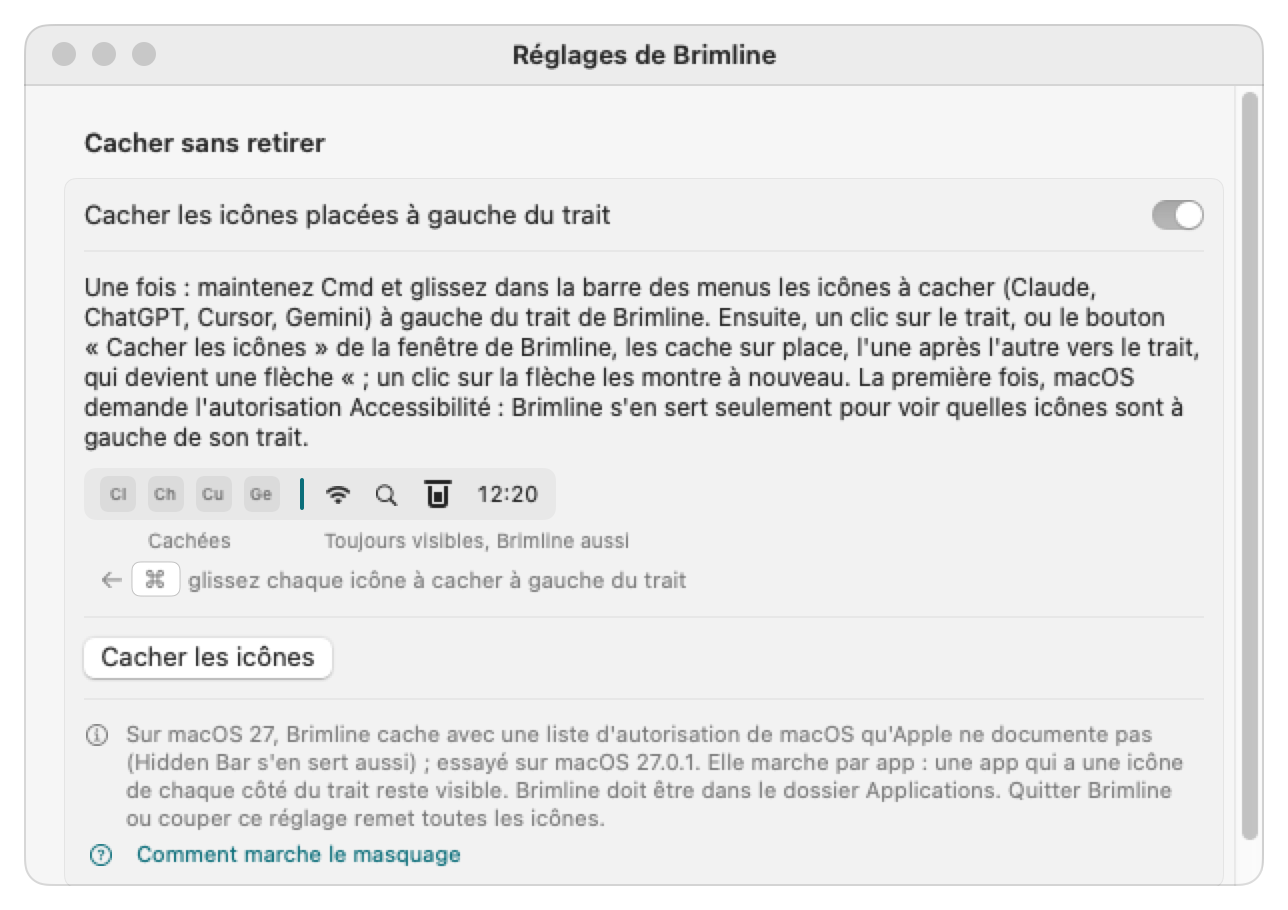
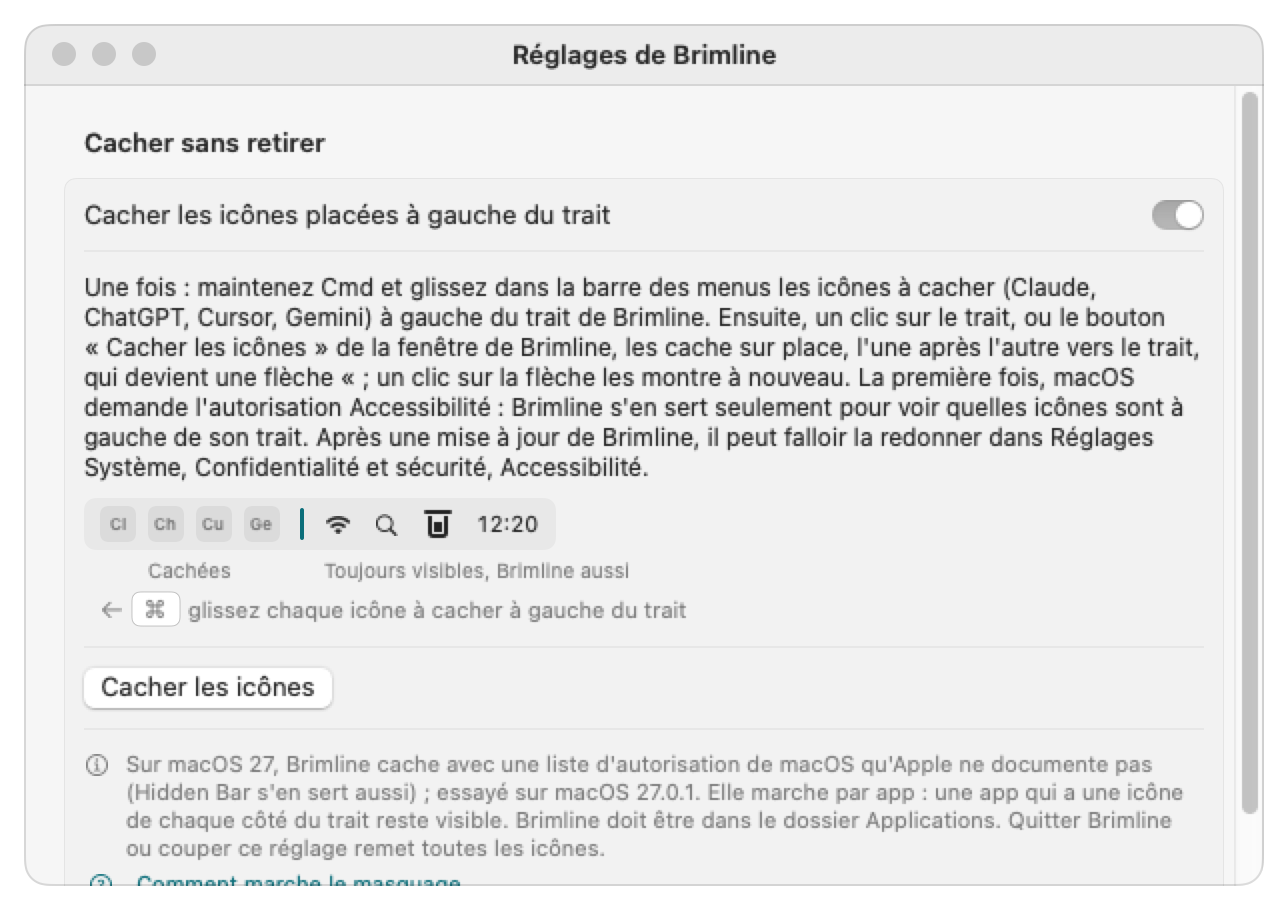
Ask for Accessibility again after an update; the grant covers one build (#42)
* Brimline: ask for Accessibility again after an update, and say the grant covers one build (THA-1551)

The grant macOS keeps for Brimline names the cdhash of the build that was
approved (an ad hoc signature): the build of main after #41 was not
covered, and the bar hid every other app at once with the remembered list,
without asking. Brimline now opens macOS's window (once per launch)
whenever it is not trusted, list or not, and the texts say that macOS asks
again after each update.

Docs: the claim that a new build kept the permission is withdrawn (that
install had copied the same build), J10 says what was really installed and
that the fixes of #41 are still to be tried by real clicks.

* Brimline: say only what was seen about the Accessibility permission after an update (THA-1551)

Seen on 29 October 2026: the grant names the cdhash of the build approved,
and the next build was not covered. Not seen yet: whether macOS shows its
window again while the old entry stays turned on, nor the gesture that makes
it cover the new build. The texts now say the permission may have to be
given again, and that this gesture is not tried yet. docs/install.md (Update)
and docs/faq.md say it too.

---------

Changed region(s): [[0.0621, 0.7077, 0.9317, 0.9846], [0.0621, 0.4615, 0.9006, 0.6769], [0.9627, 0.8923, 0.9938, 0.9231]]

diff --git a/Sources/BrimlineCore/Formatting.swift b/Sources/BrimlineCore/Formatting.swift
@@ -555,8 +555,8 @@ public struct Strings: Sendable {
     }
     /// The same on macOS 27, where Brimline hides with macOS's allow-list.
     public var menuBarHidingHowToAllowList: String {
-        t("Once: hold Command and drag the icons to hide (Claude, ChatGPT, Cursor, Gemini) to the left of Brimline's bar in the menu bar. Then a click on the bar, or the “Hide the icons” button of the Brimline window, hides them in place, one after the other toward the bar, which becomes an arrow «; a click on the arrow shows them again. The first time, macOS asks for the Accessibility permission: Brimline uses it only to see which icons are left of its bar.",
-          "Une fois : maintenez Cmd et glissez dans la barre des menus les icônes à cacher (Claude, ChatGPT, Cursor, Gemini) à gauche du trait de Brimline. Ensuite, un clic sur le trait, ou le bouton « Cacher les icônes » de la fenêtre de Brimline, les cache sur place, l'une après l'autre vers le trait, qui devient une flèche « ; un clic sur la flèche les montre à nouveau. La première fois, macOS demande l'autorisation Accessibilité : Brimline s'en sert seulement pour voir quelles icônes sont à gauche de son trait.")
+        t("Once: hold Command and drag the icons to hide (Claude, ChatGPT, Cursor, Gemini) to the left of Brimline's bar in the menu bar. Then a click on the bar, or the “Hide the icons” button of the Brimline window, hides them in place, one after the other toward the bar, which becomes an arrow «; a click on the arrow shows them again. The first time, macOS asks for the Accessibility permission: Brimline uses it only to see which icons are left of its bar. After an update of Brimline, it may have to be given again in System Settings, Privacy & Security, Accessibility.",
+          "Une fois : maintenez Cmd et glissez dans la barre des menus les icônes à cacher (Claude, ChatGPT, Cursor, Gemini) à gauche du trait de Brimline. Ensuite, un clic sur le trait, ou le bouton « Cacher les icônes » de la fenêtre de Brimline, les cache sur place, l'une après l'autre vers le trait, qui devient une flèche « ; un clic sur la flèche les montre à nouveau. La première fois, macOS demande l'autorisation Accessibilité : Brimline s'en sert seulement pour voir quelles icônes sont à gauche de son trait. Après une mise à jour de Brimline, il peut falloir la redonner dans Réglages Système, Confidentialité et sécurité, Accessibilité.")
     }
     public var menuBarHidingHide: String { t("Hide the icons", "Cacher les icônes") }
     public var menuBarHidingShow: String { t("Show the hidden icons", "Montrer les icônes cachées") }

diff --git a/Sources/BrimlineCore/MenuBarHiding.swift b/Sources/BrimlineCore/MenuBarHiding.swift
@@ -163,8 +163,8 @@ public enum MenuBarHiding {
 public struct MenuBarHidingSettings: Codable, Sendable, Equatable {
     public var enabled: Bool = false
     /// macOS 27: the apps found right of the bar the last time Brimline could read the menu bar (bundle identifiers).
-    /// Brimline is signed ad hoc, and macOS may tie the Accessibility permission to each build (a possibility, not
-    /// checked): when the permission is missing, or nothing could be read, the bar hides with this list.
+    /// Brimline is signed ad hoc, so macOS ties the Accessibility permission to one build (its grant names the cdhash):
+    /// after an update, until the new build is covered, or when nothing could be read, the bar hides with this list.
     public var shownApps: [String] = []
 
     public init(enabled: Bool = false, shownApps: [String] = []) {

diff --git a/Sources/BrimlineUI/MenuBarHider.swift b/Sources/BrimlineUI/MenuBarHider.swift
@@ -155,9 +155,10 @@ public final class MenuBarHider: NSObject, MenuBarSeparating {
 
     private func hideNatively(_ item: NSStatusItem) -> MenuBarHiding.Decision {
         let trusted = AXIsProcessTrusted()
+        // After an update, the permission given to the previous build no longer applies: ask macOS to show its window.
+        if !trusted { askAccessibility() }
         if let refusal = MenuBarHiding.nativeRefusal(appPath: Bundle.main.bundlePath, accessibilityTrusted: trusted,
                                                      knowsShownApps: !knownShownApps.isEmpty) {
-            if refusal == .accessibilityNeeded { askAccessibility() }
             return .refuse(refusal)
         }
         guard let window = item.button?.window, let screen = window.screen ?? NSScreen.main, window.frame.width > 0 else {

diff --git a/docs/menu-bar.fr.md b/docs/menu-bar.fr.md
@@ -20,7 +20,7 @@ Brimline ne peut pas retirer lui-même l'icône d'une autre app : macOS laisse c
 
 1. **Le trait apparaît.** Brimline ajoute un élément à lui dans la barre des menus : un fin trait vertical. La première fois, il arrive à gauche des autres icônes (macOS y place tout nouvel élément).
 2. **Une fois, le geste.** Maintenez Cmd et glissez, dans la barre des menus, chaque icône à cacher (Claude, ChatGPT, Cursor, Gemini) à gauche du trait. macOS retient la place de chaque icône, celle du trait aussi, d'un lancement à l'autre.
-3. **Cacher et montrer.** Un clic sur le trait cache tout ce qui est à sa gauche, et le trait devient une flèche «, juste à côté des icônes qui restent ; un clic sur la flèche les fait revenir. Sous macOS 27 et après, la première fois, macOS demande l'autorisation Accessibilité (voir plus bas). Dans la fenêtre de Brimline, **« Cacher les icônes »** et **« Montrer les icônes cachées »** font la même chose ; le même bouton est dans les Réglages.
+3. **Cacher et montrer.** Un clic sur le trait cache tout ce qui est à sa gauche, et le trait devient une flèche «, juste à côté des icônes qui restent ; un clic sur la flèche les fait revenir. Sous macOS 27 et après, macOS demande l'autorisation Accessibilité la première fois, et il peut falloir la redonner après une mise à jour de Brimline (voir plus bas). Dans la fenêtre de Brimline, **« Cacher les icônes »** et **« Montrer les icônes cachées »** font la même chose ; le même bouton est dans les Réglages.
 
 <p align="center">
   <img src="images/settings-menuBar-hiding-fr-light.png" width="520" alt="Réglages, Barre des menus, Cacher sans retirer : l'interrupteur, le geste à faire une fois, le bouton Cacher les icônes et la note sur la technique">
@@ -34,9 +34,9 @@ Quand macOS a sa liste d'autorisation de la barre des menus, Brimline cache avec
 
 - **Ce que vous voyez.** Les icônes des apps à gauche du trait disparaissent sur place, une app après l'autre de la gauche vers le trait (70 ms entre deux), et le trait devient une flèche «. macOS n'ajoute plus son propre « après les menus. Un clic sur la flèche les fait revenir, de la plus proche à la plus lointaine. Le clic sur le trait, le bouton « Cacher les icônes » de la fenêtre et celui des Réglages font la même chose.
 - **Par app.** Une app qui a une icône de chaque côté du trait reste visible, toutes ses icônes avec. Les éléments du système (horloge, Wi-Fi, Centre de contrôle) restent toujours. Une app dont Brimline ne peut pas lire les icônes en 0,2 s n'est pas sur la liste : macOS la cache, où que soient ses icônes. Quand aucune icône ne peut être lue et qu'aucune liste n'est encore mémorisée, Brimline ne cache rien et le dit.
-- **L'autorisation Accessibilité.** Brimline s'en sert seulement pour lire où sont les icônes des autres apps (l'attribut `AXExtrasMenuBar` de chaque app ouverte) et savoir lesquelles sont à gauche du trait. macOS la demande la première fois, dans une fenêtre du système. Sans elle, et sans liste connue, Brimline refuse avec : « Pour savoir quelles icônes sont à gauche de son trait, Brimline a besoin de l'autorisation Accessibilité : activez Brimline dans Réglages Système, Confidentialité et sécurité, Accessibilité, puis cliquez à nouveau. »
+- **L'autorisation Accessibilité.** Brimline s'en sert seulement pour lire où sont les icônes des autres apps (l'attribut `AXExtrasMenuBar` de chaque app ouverte) et savoir lesquelles sont à gauche du trait. macOS la demande la première fois, dans une fenêtre du système ; après une mise à jour, voir la liste mémorisée plus bas. Sans elle, et sans liste connue, Brimline refuse avec : « Pour savoir quelles icônes sont à gauche de son trait, Brimline a besoin de l'autorisation Accessibilité : activez Brimline dans Réglages Système, Confidentialité et sécurité, Accessibilité, puis cliquez à nouveau. »
 - **Brimline doit être dans `/Applications`.** Ailleurs, macOS cache aussi ses icônes. Le 28 octobre 2026, un programme d'essai a mis Brimline, alors dans `~/Applications`, sur la liste, et ses icônes ont quand même disparu, alors que les apps de `/Applications` sur la liste sont restées ; les notes de Hidden Bar 1.11.1 disent la même chose. Sinon Brimline refuse : « Brimline doit être dans le dossier Applications pour cacher des icônes : ailleurs, macOS cache aussi les siennes. Placez Brimline dans Applications, puis rouvrez-le. »
-- **La liste mémorisée.** Brimline garde les apps trouvées à droite du trait la dernière fois (`shownApps`, dans son `settings.json`). Il est signé ad hoc, et macOS peut lier l'autorisation à chaque build (une possibilité : le 29 octobre 2026, un nouveau build installé par-dessus le précédent l'a gardée) : sans l'autorisation, le trait cache avec cette liste, c'est-à-dire toutes les autres apps d'un coup.
+- **La liste mémorisée.** Brimline garde les apps trouvées à droite du trait la dernière fois (`shownApps`, dans son `settings.json`). Il est signé ad hoc, si bien que macOS lie l'autorisation à un build : l'accord qu'il garde nomme l'empreinte du code (cdhash) du build approuvé, et un nouveau build de Brimline (une mise à jour) n'est plus couvert. Vu le 29 octobre 2026 : le build approuvé à minuit était couvert, le build suivant ne l'était pas. Sans l'autorisation, le trait cache avec cette liste, c'est-à-dire toutes les autres apps d'un coup et sans vague, et Brimline demande à macOS d'afficher sa fenêtre d'autorisation (une fois par lancement). Si Brimline paraît déjà activé dans Réglages Système, Confidentialité et sécurité, Accessibilité, cette entrée nomme encore l'ancien build : le geste qui la fait couvrir le nouveau (le désactiver puis le réactiver, ou retirer Brimline avec le bouton moins et l'ajouter de nouveau) n'est pas encore essayé.
 - **Ce qui a été essayé.** Le 28 octobre 2026, sur macOS 27.0.1 (écran de 1920 pt, sans encoche), avec un programme d'essai et non Brimline : les icônes se sont cachées sur place, macOS n'a dessiné aucun « de lui, et tout est revenu à la fin de la liste. Puis, le 29 octobre 2026, dans Brimline (dans `/Applications`, avec l'autorisation Accessibilité), par de vrais clics : le trait, le bouton « Hide the icons » de la fenêtre de Brimline et celui des Réglages ont chacun caché les apps à gauche du trait l'une après l'autre, de la plus lointaine vers le trait, pendant que le trait devenait « ; le clic suivant les a remontrées en partant de la plus proche, et le « est redevenu le trait. macOS n'a dessiné aucun « de lui. Non essayé : un MacBook à encoche, plusieurs écrans, la mise en veille et le verrouillage.
 
 #### Sous macOS 26 et avant, ou sans la liste : la longueur du trait

diff --git a/docs/menu-bar.md b/docs/menu-bar.md
@@ -20,7 +20,7 @@ Brimline cannot remove another app's icon itself: macOS leaves that choice to ea
 
 1. **The bar appears.** Brimline adds one item of its own to the menu bar: a thin vertical bar. The first time, it lands left of the other icons (macOS puts a new item there).
 2. **Once, the gesture.** Hold Command and drag, in the menu bar, each icon to hide (Claude, ChatGPT, Cursor, Gemini) to the left of the bar. macOS remembers the place of every icon, the bar's too, from one launch to the next.
-3. **Hide and show.** A click on the bar hides everything left of it, and the bar becomes an arrow «, right beside the icons that stay; a click on the arrow brings them back. On macOS 27 and later, the first time, macOS asks for the Accessibility permission (see below). In the Brimline window, **"Hide the icons"** and **"Show the hidden icons"** do the same; the same button is in Settings.
+3. **Hide and show.** A click on the bar hides everything left of it, and the bar becomes an arrow «, right beside the icons that stay; a click on the arrow brings them back. On macOS 27 and later, macOS asks for the Accessibility permission the first time, and it may have to be given again after an update of Brimline (see below). In the Brimline window, **"Hide the icons"** and **"Show the hidden icons"** do the same; the same button is in Settings.
 
 <p align="center">
   <img src="images/settings-menuBar-hiding-light.png" width="520" alt="Settings, Menu Bar, Hide without removing: the switch, the gesture to make once, the Hide the icons button and the note on the technique">
@@ -34,9 +34,9 @@ When macOS has its allow-list of the menu bar, Brimline hides with it instead of
 
 - **What you see.** The icons of the apps left of the bar disappear in place, one app after the other from the left toward the bar (70 ms between two), and the bar becomes an arrow «. macOS adds no « of its own after the menus. A click on the arrow brings them back, from the nearest to the farthest. A click on the bar, the "Hide the icons" button of the window and the one in Settings do the same.
 - **Per app.** An app that has an icon on each side of the bar stays shown, all its icons with it. The items of the system (clock, Wi-Fi, Control Center) always stay. An app whose icons Brimline cannot read within 0.2 s is not on the list, so macOS hides it, wherever its icons are. When no icon at all can be read and no list is remembered yet, Brimline hides nothing and says so.
-- **The Accessibility permission.** Brimline uses it only to read where the icons of the other apps are (the `AXExtrasMenuBar` attribute of each open app) and so which ones are left of the bar. macOS asks for it the first time, in a window of the system. Without it, and without a known list, Brimline refuses with: "To know which icons are left of its bar, Brimline needs the Accessibility permission: turn Brimline on in System Settings, Privacy & Security, Accessibility, then click again."
+- **The Accessibility permission.** Brimline uses it only to read where the icons of the other apps are (the `AXExtrasMenuBar` attribute of each open app) and so which ones are left of the bar. macOS asks for it the first time, in a window of the system; after an update, see the remembered list below. Without it, and without a known list, Brimline refuses with: "To know which icons are left of its bar, Brimline needs the Accessibility permission: turn Brimline on in System Settings, Privacy & Security, Accessibility, then click again."
 - **Brimline must be in `/Applications`.** Anywhere else, macOS hides its icons too. On 28 October 2026, a test program put Brimline, then in `~/Applications`, on the list, and its icons disappeared all the same, while the apps of `/Applications` on the list stayed; the notes of Hidden Bar 1.11.1 say the same. Otherwise Brimline refuses: "Brimline must be in the Applications folder to hide icons: anywhere else, macOS hides its icons too. Move Brimline to Applications, then open it again."
-- **The remembered list.** Brimline keeps the apps it found right of the bar the last time (`shownApps`, in its `settings.json`). It is signed ad hoc, and macOS may tie the permission to each build (a possibility: on 29 October 2026, one new build installed over the previous one kept it): without the permission, the bar hides with that list, which means all the other apps at once.
+- **The remembered list.** Brimline keeps the apps it found right of the bar the last time (`shownApps`, in its `settings.json`). It is signed ad hoc, so macOS ties the permission to one build: the grant it keeps names the code hash (cdhash) of the build you approved, and a new build of Brimline (an update) is no longer covered. Seen on 29 October 2026: the build approved at midnight was covered, the next build was not. Without the permission, the bar hides with that list, which means all the other apps at once and with no wave, and Brimline asks macOS to show its permission window (once per launch). If Brimline already appears turned on in System Settings, Privacy & Security, Accessibility, that entry still names the old build: the gesture that makes it cover the new one (turn it off and on, or remove Brimline with the minus button and add it again) is not tried yet.
 - **What was tried.** On 28 October 2026, on macOS 27.0.1 (a 1920 pt screen, no notch), with a test program and not Brimline: the icons were hidden in place, macOS drew no « of its own, and everything came back at the end of the list. Then, on 29 October 2026, inside Brimline (in `/Applications`, with the Accessibility permission), by real clicks: the bar, the "Hide the icons" button of the Brimline window and the one of Settings each hid the apps left of the bar one after the other, from the farthest to the bar, while the bar turned into «; the next click showed them again from the nearest, and the « turned back into the bar. macOS drew no « of its own. Not tried: a MacBook with a notch, several screens, sleep and lock.
 
 #### On macOS 26 and before, or without the allow-list: the length of the bar

diff --git a/docs/parcours-critiques.md b/docs/parcours-critiques.md
@@ -90,7 +90,7 @@ The journeys to replay before each release to prove that Brimline (the macOS men
 - Result on 2026-10-28: not verifiable in this run. It needs the graphical session of the maintainer and real accounts, which a non-regression run must not use; the bundle was built (J5) and its views drawn on invented data (J7), nothing more. Reading real providers also stays manual (the 27 October 2026 trials listed in the README and in `docs/providers.md`).
 - Result on 2026-10-28, later, with the maintainer's agreement, on the maintainer's Mac (macOS 27.0.1, a 1920 pt screen, real accounts), build of version 0.2.2 installed by `scripts/install.sh`, by real mouse clicks: a click on Brimline's element opens the panel; "Hide the icons" in the panel, with Claude in front and the bar at 1512 pt, hides the icons left of the bar except the two closest to it, which move left (a « sign appears in place of the others), the line of the bar stays in place and the panel shows the note on the icons closest to the bar; "Show the hidden icons" brings every icon back; the same with Finder in front and with Settings in front. In Settings, Accounts, the "+" of "Other color…" opens the system color panel without changing the saved colors, and the panel closes with Settings. Proof: screenshots of the menu bar before and after each step, kept with the maintainer. Not covered: opening at login, the system log.
 - Result on 2026-10-28, at night, same Mac, build of the change "a click on the bar" (after 0.2.2) installed by `scripts/install.sh`, by real mouse clicks, with the bar at 1442 pt: a click on the bar hides every icon left of it and the bar becomes an arrow « beside the search icon (macOS also shows its own « right after the menus of Claude; earlier the same day, with version 0.2.2, a click on that « of macOS showed the hidden icons in place of the menus of the app in front); a click on the arrow shows them all again; a second cycle gives the same; with the Brimline window open, a click on the arrow closes it and shows the icons. Proof: screenshots of the menu bar, kept with the maintainer. Not covered: the "Hide the icons" button of the window in this build (the Mac was in use), opening at login.
-- Result on 2026-10-29, hiding with macOS 27's allow-list inside Brimline (macOS 27.0.1, a 1920 pt screen with no notch, Brimline in `/Applications` with the Accessibility permission, its bar placed by the maintainer left of Notion Calendar's item): OK by real clicks. A click on the bar hid the apps left of it one after the other, from the farthest to the bar (Flux first, Search last), while the bar turned into «; a click on the « showed them again from the nearest, and the « turned back into the bar. The "Hide the icons" button of the Brimline window and the one of Settings gave the same, both ways, and their label followed ("Show the hidden icons" / "Hide the icons"). Only one « in the menu bar: macOS drew none of its own. The Brimline window opened right under the menu bar (top at 32 pt), as high as its content (867 pt), with no band under "Quit". Two synthetic clicks sent while the menu bar was hidden were lost; the same action sent through Accessibility (AXPress) worked, then the real clicks with the menu bar shown. After the fixes of the review (a number for each wave, the way back starting from what is really hidden), installed again with `scripts/install.sh` while the icons were hidden: they all came back at once when the old copy was ended, before the new one started; the new build kept the Accessibility permission; the first hide after the launch took about 2 s before the icons went (the first read of the menu bar), the next ones started at once, and both waves went one app after the other. Not covered: a notch, several screens, sleep and lock, an app whose Accessibility read times out (it is then hidden, as it is not on the list).
+- Result on 2026-10-29, hiding with macOS 27's allow-list inside Brimline (macOS 27.0.1, a 1920 pt screen with no notch, Brimline in `/Applications` with the Accessibility permission, its bar placed by the maintainer left of Notion Calendar's item): OK by real clicks. A click on the bar hid the apps left of it one after the other, from the farthest to the bar (Flux first, Search last), while the bar turned into «; a click on the « showed them again from the nearest, and the « turned back into the bar. The "Hide the icons" button of the Brimline window and the one of Settings gave the same, both ways, and their label followed ("Show the hidden icons" / "Hide the icons"). Only one « in the menu bar: macOS drew none of its own. The Brimline window opened right under the menu bar (top at 32 pt), as high as its content (867 pt), with no band under "Quit". Two synthetic clicks sent while the menu bar was hidden were lost; the same action sent through Accessibility (AXPress) worked, then the real clicks with the menu bar shown. Then `scripts/install.sh` was run again from the branch while the icons were hidden: they all came back at once when the old copy was ended, before the new one started. That install copied the build already made in that folder, before the fixes of the review, so it was the same build (same cdhash) and it kept the permission; with it, the first hide after the launch took about 2 s before the icons went (the first read of the menu bar), the next ones started at once, and both waves went one app after the other. The build of `main` after the merge (ef276a2) has another cdhash: the grant macOS keeps (`cdhash H"…"` of the approved build, read in the system's permission database) did not cover it, so the bar hid every other app at once with the remembered list. The fixes of the review (a number for each wave, the way back from what is really hidden) are still to be tried by real clicks, once the permission is given again. Not covered: a notch, several screens, sleep and lock, an app whose Accessibility read times out (it is then hidden, as it is not on the list).
 
 ## Debt
 

diff --git a/CHANGELOG.md b/CHANGELOG.md
@@ -9,7 +9,7 @@ The version lives in the `VERSION` file. `0.0.0` is the development version: not
 ### Changed
 
 - **On macOS 27 and later, Brimline hides with macOS's allow-list of the menu bar.** When macOS has it (private framework `MenuBarClientCore`, classes `MBAssessmentModeConfiguration` and `MBAssessmentModeAssertion`, the one of the exam mode; Hidden Bar 1.11.1 of 18 September 2026 uses it too), Brimline hides with it instead of making its bar long. The icons of the apps left of the bar disappear in place, one app after the other from the left toward the bar (70 ms between two), and the bar becomes an arrow «; macOS adds no « of its own after the menus. A click on the arrow brings them back, from the nearest to the farthest; the click on the bar and the "Hide the icons" buttons of the window and of Settings do the same. It works per app: an app with an icon on each side of the bar stays shown, all its icons with it, and the items of the system (clock, Wi-Fi, Control Center) always stay. Apple does not document it: Brimline looks for it at launch and, when it is gone, goes back to the length of its bar (which stays for macOS 26 and before).
-- **The Accessibility permission, for macOS 27.** Brimline uses it only to read where the icons of the other apps are (the `AXExtrasMenuBar` attribute of each open app), to know which are left of the bar; macOS asks for it the first time. Without it, and without a known list, Brimline refuses and says what to turn on. `settings.json` now keeps `"menuBarHiding": { "enabled": …, "shownApps": [identifiers] }`, the apps found right of the bar the last time: Brimline is signed ad hoc and macOS may tie the permission to each build (a possibility: on 29 October 2026, one new build installed over the previous one kept it), and without the permission the bar hides with that list, which means all the other apps at once.
+- **The Accessibility permission, for macOS 27.** Brimline uses it only to read where the icons of the other apps are (the `AXExtrasMenuBar` attribute of each open app), to know which are left of the bar; macOS asks for it the first time. Without it, and without a known list, Brimline refuses and says what to turn on. `settings.json` now keeps `"menuBarHiding": { "enabled": …, "shownApps": [identifiers] }`, the apps found right of the bar the last time: Brimline is signed ad hoc, so macOS ties the permission to one build (the grant names the cdhash of the build approved; on 29 October 2026 the next build was not covered): after an update, the bar hides with that list, which means all the other apps at once, and Brimline asks macOS to show its permission window (once per launch); how to make an entry that still names the old build cover the new one is not tried yet.
 - **Brimline must be in `/Applications` to hide.** Anywhere else, macOS hides its icons too (28 October 2026: a test program put Brimline, then in `~/Applications`, on the list and its icons disappeared, while the apps of `/Applications` on the list stayed). Otherwise Brimline refuses and says to move it.
 - **Quitting Brimline or turning the setting off shows every icon again:** the list ends with the process of Brimline. Tried on 29 October 2026: when `scripts/install.sh` ended Brimline while the icons were hidden (a plain `kill`, so Brimline cleaned nothing up), they all came back at once, before the new copy started.
 - **Tried on 28 October 2026, on macOS 27.0.1 (a 1920 pt screen, no notch), with a test program and not Brimline:** icons hidden in place, no « of macOS, everything back at the end. Then tried inside Brimline on 29 October 2026 (Brimline in `/Applications`, with the Accessibility permission): a click on the bar, the "Hide the icons" button of the window and the one of Settings each hid the apps left of the bar one after the other, from the farthest to the bar, while the bar turned into «; the next click showed them again from the nearest, and the « turned back into the bar. macOS drew no « of its own.

diff --git a/SECURITY.md b/SECURITY.md
@@ -103,7 +103,7 @@ Every provider but Claude is off until you turn it on, and an account marked "Do
 - `~/Library/Application Support/Brimline/claude-reports/`, only through `brimline report claude`: one report of numbers per address (see "Claude Code reports" above), folder `0700`, files `0600`.
 - `~/Library/LaunchAgents/eu.thanaelfontaine.brimline.plist`, only when you turn on "Open at login"; it opens the app and nothing else.
 - Nothing in the Keychain, nothing in the Claude Code folders.
-- Hiding menu bar icons: a private API, the Accessibility permission, and what they read. With "Hide without removing" on (Settings, Menu Bar, off by default), Brimline adds one more item of its own to the menu bar, a thin bar. On macOS 27 and later, when macOS has its allow-list of the menu bar (the private framework `MenuBarClientCore`, classes `MBAssessmentModeConfiguration` and `MBAssessmentModeAssertion`, which Apple does not document), Brimline hides with it: it uses that private API, and the Accessibility permission, which macOS asks for the first time. It reads with that permission only the positions of the icons of the other open apps in the menu bar (the `AXExtrasMenuBar` attribute), to know which are left of the bar; it reads no window, no text, no content of the other apps. It writes one thing: `shownApps`, the bundle identifiers of the apps found right of the bar the last time, in its own `settings.json`. It writes in no file of macOS or of another app; macOS itself keeps the place of the bar, as for every item you drag. Without the allow-list (macOS 26 and before, or a macOS that removed it), Brimline only changes the length of its own item: no permission, no private API. See [docs/menu-bar.md](docs/menu-bar.md) for what was tried and its limits.
+- Hiding menu bar icons: a private API, the Accessibility permission, and what they read. With "Hide without removing" on (Settings, Menu Bar, off by default), Brimline adds one more item of its own to the menu bar, a thin bar. On macOS 27 and later, when macOS has its allow-list of the menu bar (the private framework `MenuBarClientCore`, classes `MBAssessmentModeConfiguration` and `MBAssessmentModeAssertion`, which Apple does not document), Brimline hides with it: it uses that private API, and the Accessibility permission, which macOS asks for the first time; Brimline is signed ad hoc, so the grant covers one build (it names its cdhash), and a new build (an update) is no longer covered until the permission is given again. It reads with that permission only the positions of the icons of the other open apps in the menu bar (the `AXExtrasMenuBar` attribute), to know which are left of the bar; it reads no window, no text, no content of the other apps. It writes one thing: `shownApps`, the bundle identifiers of the apps found right of the bar the last time, in its own `settings.json`. It writes in no file of macOS or of another app; macOS itself keeps the place of the bar, as for every item you drag. Without the allow-list (macOS 26 and before, or a macOS that removed it), Brimline only changes the length of its own item: no permission, no private API. See [docs/menu-bar.md](docs/menu-bar.md) for what was tried and its limits.
 - Once, at its first launch, it reads `settings.json` and `usage.json` from the old folder in `~/Library/Application Support` (the one named after the old app) and copies them to the Brimline folder: a real folder owned by you, files opened without following a link, regular, owned by you, 1 MiB at most, decoded into the same types as above and written again (so no token can come over), never over an existing file. The old folder is not changed.
 
 ### Claude Code reports (`brimline report claude`)

diff --git a/docs/faq.md b/docs/faq.md
@@ -65,7 +65,7 @@ Yes: a command with JSON output and a local MCP server, both reading the app's c
 
 It cannot remove them, but it can hide them with a bar of its own and, on macOS 27, with a list of macOS. macOS has no public way for an app to remove another app's menu bar icon (an app can only manage its own). The tools that hide them (Bartender, Ice) use non-public methods that need Accessibility, and sometimes Screen Recording, and they are broken or unstable on macOS 27. **Settings, Menu Bar** gives you the way out first, and it asks for nothing: for each of the three apps installed on your Mac, the name of its own switch ("Turn off “Menu bar”" in Claude, "Show in menu bar" in ChatGPT, "Menu Bar Icon" in Cursor), where it is, and a button that opens the app; a button that opens System Settings on Menu Bar (macOS has its own "Allow in the Menu Bar" switch for each app); and the Command-drag gesture, which works for the apps that allow it. The names of the switches are the ones read in the apps on 27 October 2026 and can change with their versions.
 
-To keep the icons and still hide them, **Settings, Menu Bar, Hide without removing** (off by default) does it with a thin bar of Brimline's that you put, once, right of the icons to hide (Command-drag). On **macOS 27 and later**, Brimline hides with macOS's own allow-list of the menu bar, a private API that Apple does not document (Hidden Bar uses it too on macOS 27): the icons left of the bar disappear in place, and the bar becomes an arrow « that brings them back. It asks for the **Accessibility permission**, only to read where the icons of the other apps are, and Brimline must be in `/Applications`. On macOS 26 and before, Brimline makes its bar long to push the icons out of sight, with no permission and no private API. In both cases Brimline stays right of the bar, and quitting it or turning the setting off shows every icon again. A later version of macOS could remove what Brimline uses (it goes back to the length of its bar, or hides nothing and every icon stays shown, not tried). It was tried on macOS 27.0.1 on a screen without a notch, not on a MacBook with a notch nor with several screens. Detail and limits: [menu bar](menu-bar.md).
+To keep the icons and still hide them, **Settings, Menu Bar, Hide without removing** (off by default) does it with a thin bar of Brimline's that you put, once, right of the icons to hide (Command-drag). On **macOS 27 and later**, Brimline hides with macOS's own allow-list of the menu bar, a private API that Apple does not document (Hidden Bar uses it too on macOS 27): the icons left of the bar disappear in place, and the bar becomes an arrow « that brings them back. It asks for the **Accessibility permission**, only to read where the icons of the other apps are (Brimline is signed ad hoc, so the permission covers one build and may have to be given again after an update), and Brimline must be in `/Applications`. On macOS 26 and before, Brimline makes its bar long to push the icons out of sight, with no permission and no private API. In both cases Brimline stays right of the bar, and quitting it or turning the setting off shows every icon again. A later version of macOS could remove what Brimline uses (it goes back to the length of its bar, or hides nothing and every icon stays shown, not tried). It was tried on macOS 27.0.1 on a screen without a notch, not on a MacBook with a notch nor with several screens. Detail and limits: [menu bar](menu-bar.md).
 
 ## Why is there no Dock icon?
 

diff --git a/docs/install.md b/docs/install.md
@@ -69,6 +69,7 @@ Then link your accounts: [accounts.md](accounts.md).
 - Installed with the one-line script: run the same line again.
 - Installed from the disk image: download the new one and drag Brimline onto Applications again (replace it), after quitting Brimline.
 - Built from the source: `git pull`, then `scripts/build_app.sh` and `scripts/install.sh` (it stops the running copy before replacing it).
+- On macOS 27, with "Hide without removing" on: Brimline is signed ad hoc, so the Accessibility permission covers one build. After an update, the bar hides with the remembered list (all the other apps at once, no wave) until the permission covers the new build; see [menu bar](menu-bar.md#2-hide-icons-without-removing-them).
 
 ## Formerly Sightglass
 
